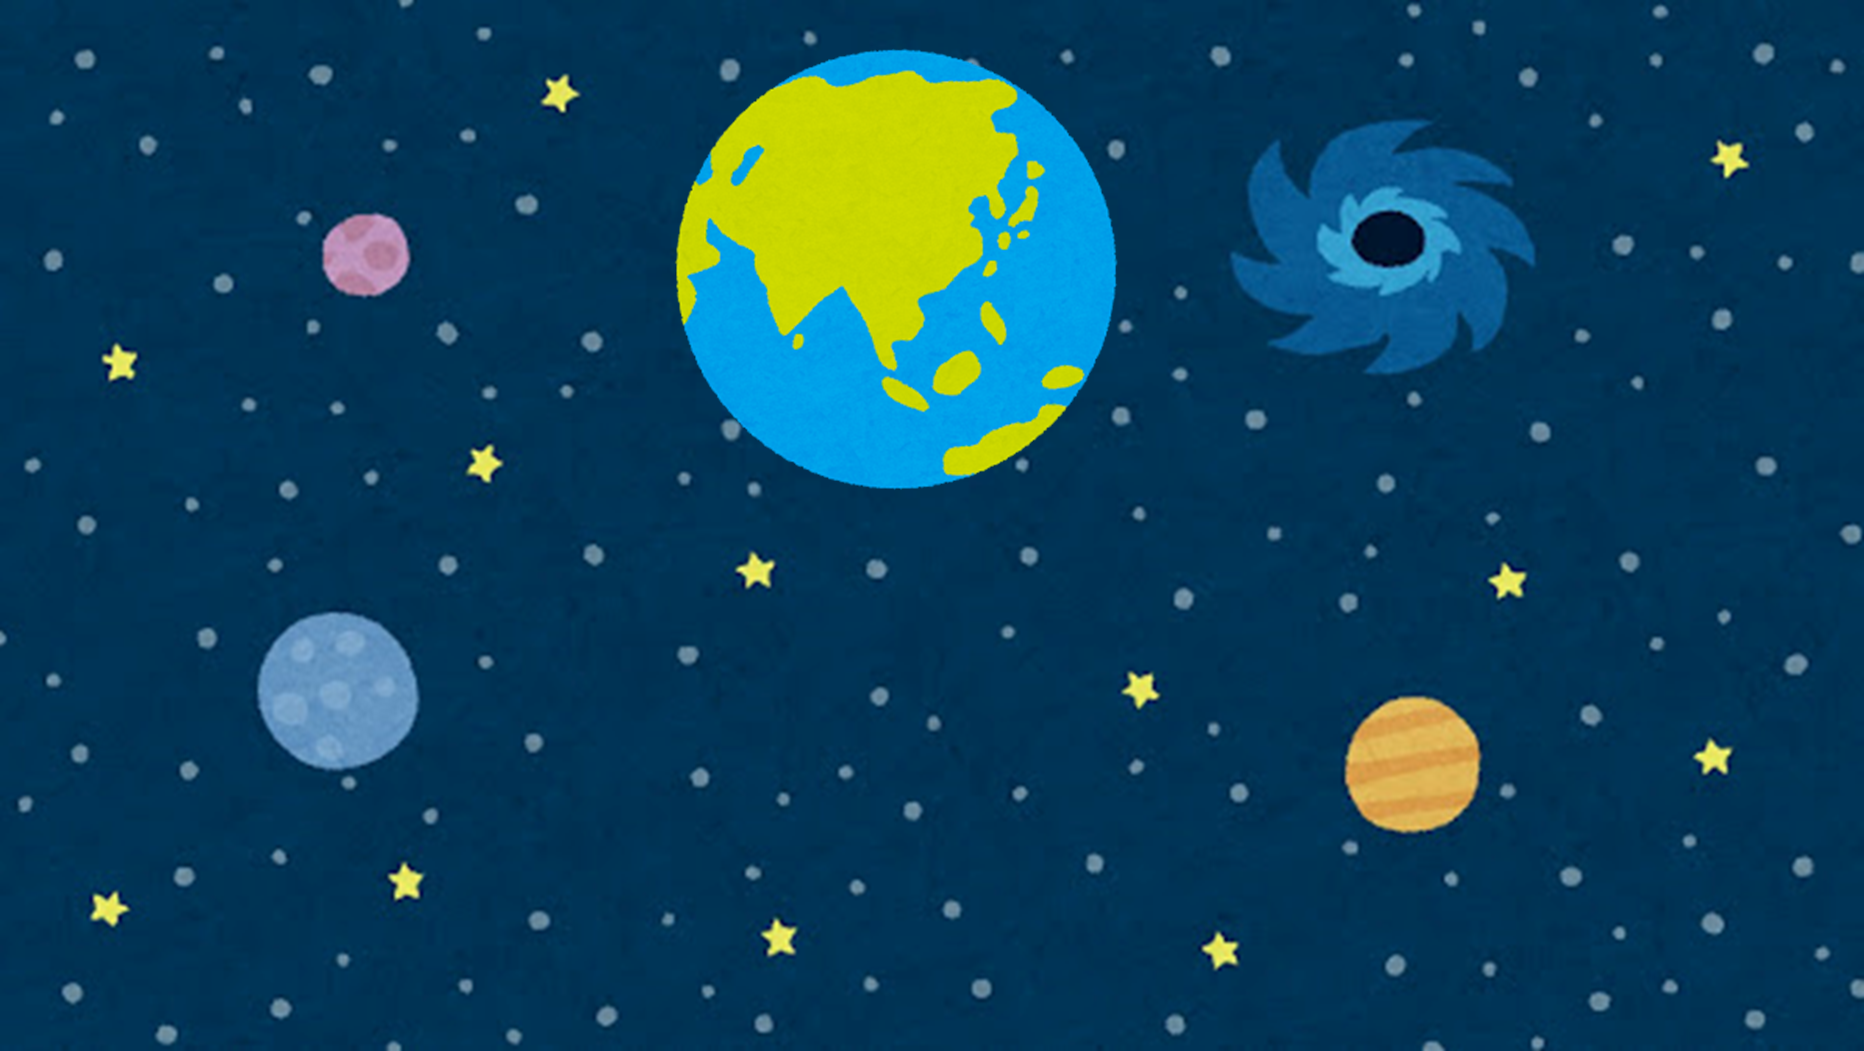
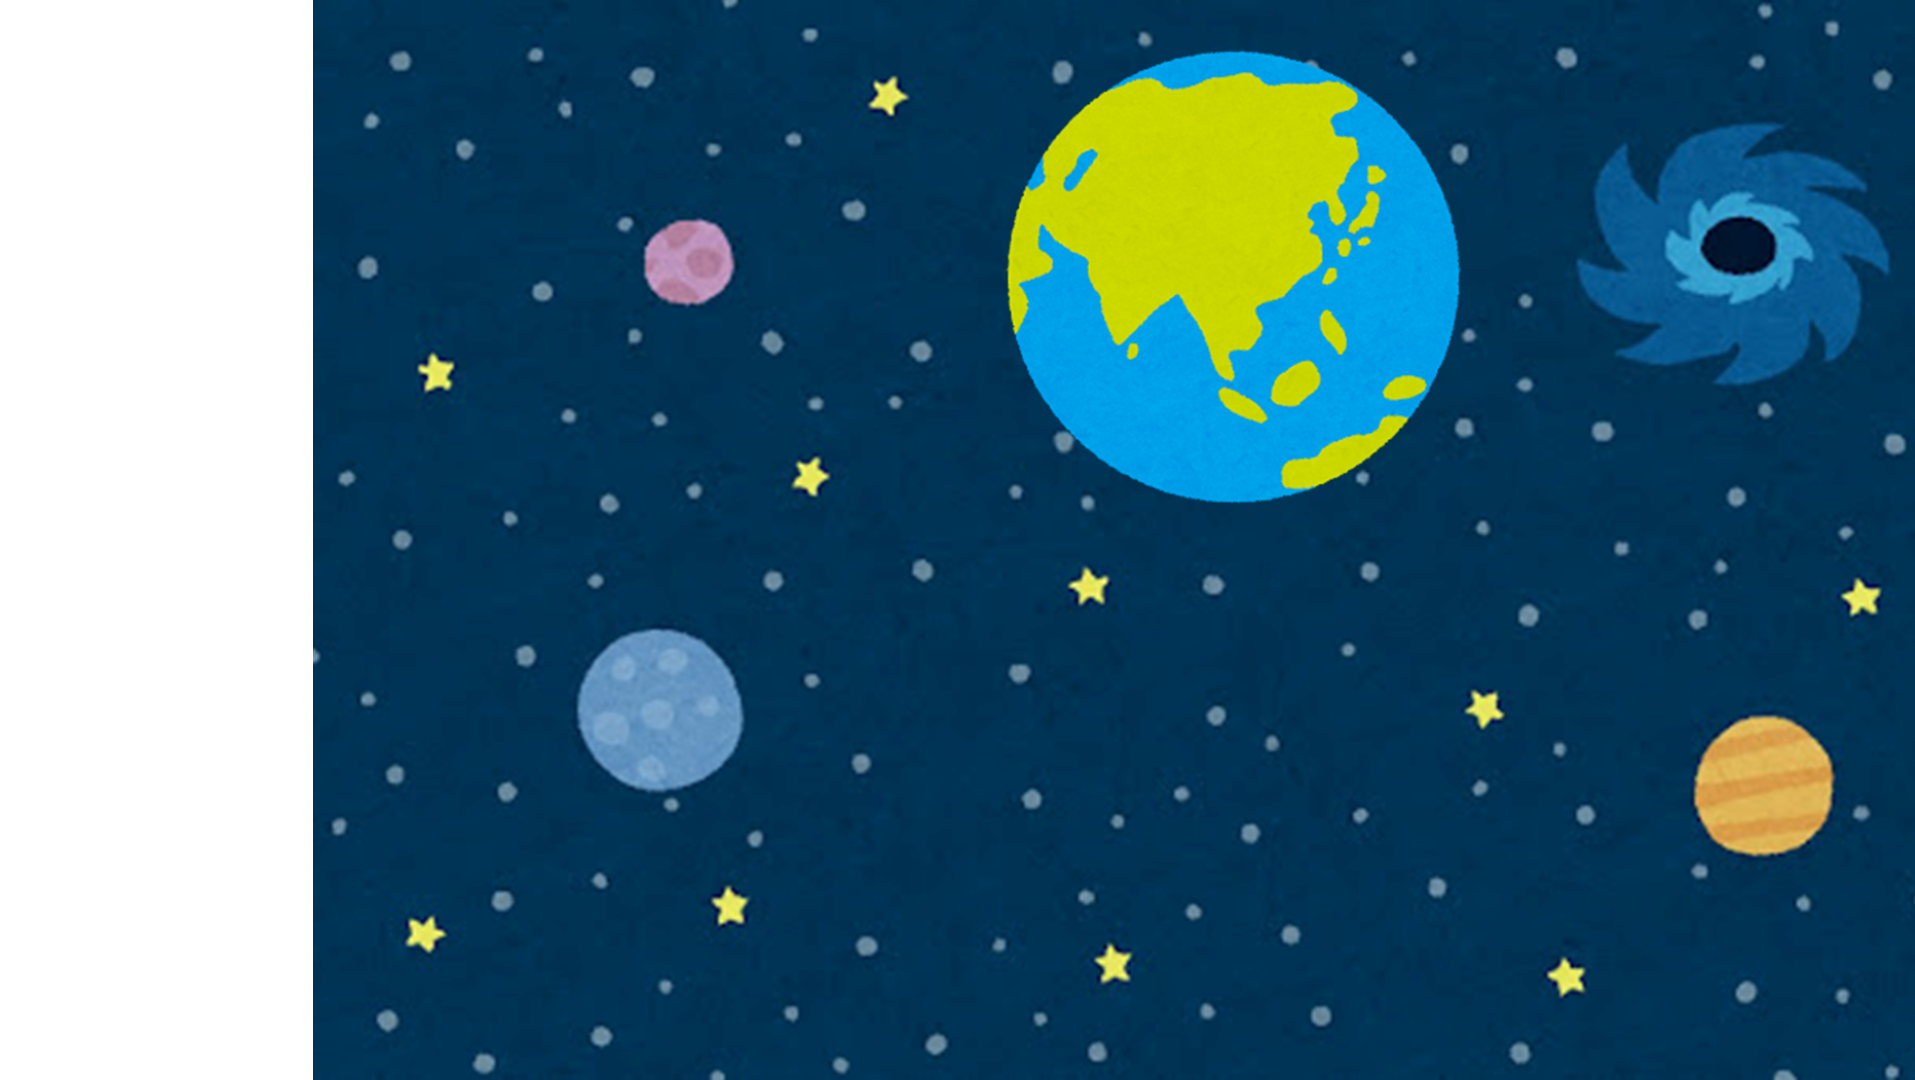
背景、バー、ボールを表示 close #13,close #14,close #18

diff --git a/scripts/main_scene.js b/scripts/main_scene.js
@@ -8,12 +8,16 @@ class MainScene extends Phaser.Scene {
 
 	preload()
     {
+        this.load.image('background', 'assets/back.png');
+        this.load.image('bar', 'assets/bar.png');
+        this.load.image('ball', 'assets/ball.png');
     }
 
     create()
     {
-        this.cameras.main.setBackgroundColor("#333388");
-        this.add.text(D_WIDTH/2, D_HEIGHT/2, 'Hello World', { fontSize: '28px', fill: '#FFF' ,fontFamily: "Arial"}); 
-
+        this.add.image(300, 400, 'background');
+        this.add.image(100, 100, 'ball');
+        this.add.image(100, 100, 'bar');
+       
     }
 }

diff --git a/scripts/game_boot.js b/scripts/game_boot.js
@@ -3,8 +3,8 @@ let config;
 let game;
 
 // ゲーム画面サイズ
-const D_WIDTH = 800;
-const D_HEIGHT = 600;
+const D_WIDTH = 1270;
+const D_HEIGHT = 540;
 
 // ページ読み込み完了時に実行
 window.onload = function() {
